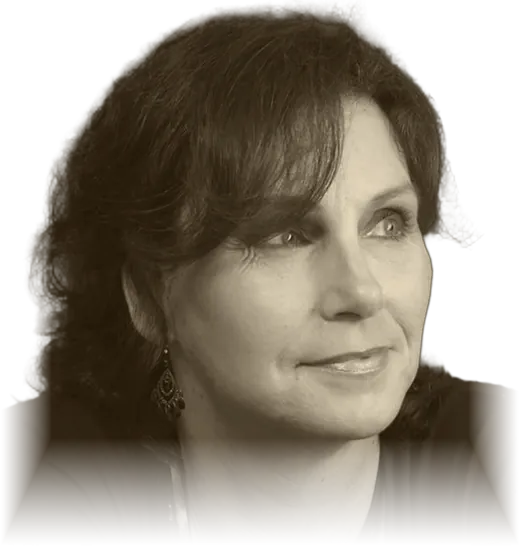
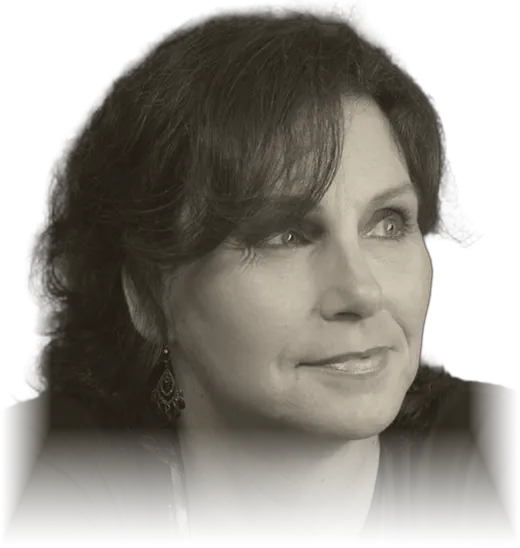
More elegant type and color
- Cormorant Garamond (light, with italic accents) for headings, Jost for text
- One champagne accent; ivory text on a warm near-black
- Section and album colors muted to jewel tones (plum, antique gold,
  copper, deep teal-green, oxblood); photos retinted to match
- Thin rectangular buttons, hairline labels and dividers, softer glows
  and grain, finer video play buttons
- Share card and tab icon redone in the new style

Claude-Session: https://claude.ai/code/session_01UcYrjYLsU9jUL2xbcuy7bP

Changed region(s): [[0.0615, 0.7755, 0.9231, 0.8686]]

diff --git a/assets/css/style.css b/assets/css/style.css
@@ -1,17 +1,17 @@
 /* Tamara L. Wilson Music — site styles */
 :root {
-  --bg: #15100c;
-  --surface: #211812;
-  --surface-2: #2c2018;
-  --line: #3d2e23;
-  --text: #f6ede4;
-  --muted: #c2b0a0;
-  --accent: #f0a93b;      /* warm amber */
-  --accent-ink: #1a1009;
-  --radius: 14px;
+  --bg: #0f0c0a;          /* warm near-black */
+  --surface: #191410;
+  --surface-2: #221b15;
+  --line: rgba(201, 169, 110, .22);   /* hairline champagne */
+  --text: #f1e9dc;        /* ivory */
+  --muted: #b8ab99;
+  --accent: #c9a96e;      /* champagne gold: the one accent color */
+  --accent-ink: #17120c;
+  --radius: 4px;
   --wrap: 1160px;
-  --serif: "Fraunces", Georgia, "Times New Roman", serif;
-  --sans: "Inter", system-ui, -apple-system, "Segoe UI", Roboto, sans-serif;
+  --serif: "Cormorant Garamond", "Cormorant", Garamond, "Times New Roman", serif;
+  --sans: "Jost", "Futura", system-ui, -apple-system, "Segoe UI", sans-serif;
   color-scheme: dark;
 }
 
@@ -383,3 +383,121 @@ details.more[open] > summary { margin-bottom: 24px; }
           mask-image: radial-gradient(ellipse 72% 72% at 50% 50%, #000 48%, transparent 100%); }
 .album-art .still-wrap img.still { width: 100%; height: 100%; aspect-ratio: auto; object-fit: cover; transform: scale(1.45); -webkit-mask-image: none; mask-image: none; opacity: .95; }
 @media (max-width: 699px) { .album-art .still-wrap { aspect-ratio: 16/9; } }
+
+
+/* =====================================================================
+   Elegant theme: Cormorant Garamond headings, Jost text, champagne accent,
+   thin outlined buttons, hairlines, quieter color.
+   ===================================================================== */
+body { font: 300 17px/1.75 var(--sans); letter-spacing: .01em; }
+strong, b { font-weight: 500; }
+h1, h2, h3, .h3 { font-family: var(--serif); font-weight: 400; letter-spacing: 0; }
+em { font-style: italic; }
+
+/* Header */
+.site-header { background: rgba(15, 12, 10, .82); border-bottom: 1px solid var(--line); }
+.brand { font-family: var(--serif); font-weight: 500; font-size: 1.45rem; letter-spacing: .02em; }
+.site-nav a { font: 400 .74rem/1 var(--sans); letter-spacing: .24em; text-transform: uppercase; color: var(--muted); }
+.site-nav a:hover, .site-nav a[aria-current="page"] { color: var(--text); }
+.site-nav > ul > li > a[aria-current="page"] { box-shadow: inset 0 -1px 0 var(--accent); }
+
+/* Big poster headings: light serif, mixed upright and italic */
+.poster-title {
+  font-family: var(--serif); font-weight: 300; text-transform: none; letter-spacing: -.01em; line-height: 1.02;
+  font-size: clamp(2.9rem, 6.6vw, 5.6rem); margin: 0 0 .45em; text-wrap: balance;
+}
+.poster-title em { font-style: italic; font-weight: 300; color: color-mix(in srgb, var(--text) 70%, var(--accent)); }
+.album .poster-title { font-size: clamp(2.5rem, 5.4vw, 4.4rem); }
+.poster .hero-line { font-family: var(--serif); font-style: italic; font-weight: 300; font-size: clamp(1.45rem, 2.8vw, 2rem); color: var(--text); }
+
+/* Small spaced labels, with a hairline before them */
+.poster-label { display: flex; align-items: center; gap: 12px; font: 400 .7rem/1 var(--sans); letter-spacing: .32em; color: var(--accent); margin-bottom: 26px; }
+.poster-label::before { content: ""; width: 34px; height: 1px; background: currentColor; opacity: .6; }
+.poster-label span { font: italic 300 1.15rem/1 var(--serif); letter-spacing: 0; margin-right: 2px; color: var(--text); }
+.album .poster-label, .plain .poster-label { color: var(--accent); }
+.album .poster-label span, .plain .poster-label span { color: var(--text); }
+
+.lede { font-weight: 300; font-size: 1.12rem; line-height: 1.75; }
+.poster .lede, .album .lede { color: color-mix(in srgb, var(--text) 88%, rgb(var(--c, 201,169,110))); }
+
+/* Info row */
+.info-row { border-top: 1px solid var(--line); }
+.info-row dt { font: 400 .66rem/1 var(--sans); letter-spacing: .28em; color: var(--accent) !important; }
+.info-row dd { font-family: var(--serif); font-size: 1.2rem; }
+.info-row a { border-bottom: 1px solid var(--line); }
+
+/* Buttons: thin, rectangular, spaced capitals */
+.btn {
+  min-height: 48px; padding: 0 28px; border-radius: 0; border: 1px solid var(--accent);
+  background: var(--accent); color: var(--accent-ink);
+  font: 500 .72rem/1 var(--sans); letter-spacing: .24em; text-transform: uppercase; transition: background .25s, color .25s, border-color .25s;
+}
+.btn:hover { transform: none; background: transparent; color: var(--accent); }
+.btn.ghost, .poster .btn.ghost, .album .btn.ghost { background: transparent; color: var(--text); border-color: rgba(241, 233, 220, .32); }
+.btn.ghost:hover, .poster .btn.ghost:hover, .album .btn.ghost:hover { border-color: var(--accent); color: var(--accent); }
+.btn.small { min-height: 40px; padding: 0 18px; font-size: .68rem; }
+.btn-play .play-icon { border-width: 6px 0 6px 9px; }
+.text-link, .poster .text-link { color: var(--accent); text-decoration-thickness: 1px; text-underline-offset: 4px; }
+
+/* Calmer color: softer glows, gentler grain */
+.poster {
+  background:
+    radial-gradient(55% 85% at 76% 45%, rgba(var(--c), .32), transparent 72%),
+    radial-gradient(45% 70% at 4% 100%, rgba(var(--c2, var(--c)), .12), transparent 70%),
+    linear-gradient(100deg, var(--deep) 0%, var(--mid) 100%);
+}
+.poster.flip {
+  background:
+    radial-gradient(55% 85% at 24% 45%, rgba(var(--c), .32), transparent 72%),
+    radial-gradient(45% 70% at 96% 100%, rgba(var(--c2, var(--c)), .12), transparent 70%),
+    linear-gradient(260deg, var(--deep) 0%, var(--mid) 100%);
+}
+.poster + .poster, .album { border-top: 1px solid var(--line); }
+.poster::before, .album::before { opacity: .22; }
+.album {
+  background:
+    radial-gradient(55% 70% at 78% 18%, color-mix(in srgb, var(--m) 30%, transparent), transparent 72%),
+    radial-gradient(45% 60% at 0% 100%, color-mix(in srgb, var(--m2) 12%, transparent), transparent 70%),
+    linear-gradient(100deg, color-mix(in srgb, var(--m) 5%, #0d0a09), color-mix(in srgb, var(--m) 13%, #110d0b));
+}
+.album.flip {
+  background:
+    radial-gradient(55% 70% at 22% 18%, color-mix(in srgb, var(--m) 30%, transparent), transparent 72%),
+    radial-gradient(45% 60% at 100% 100%, color-mix(in srgb, var(--m2) 12%, transparent), transparent 70%),
+    linear-gradient(260deg, color-mix(in srgb, var(--m) 5%, #0d0a09), color-mix(in srgb, var(--m) 13%, #110d0b));
+}
+.poster-photo img { filter: drop-shadow(0 30px 70px rgba(0,0,0,.5)) saturate(.85); }
+
+/* Covers, videos and pictures: crisper corners, finer details */
+.poster-cover img, .album-art img.square, .album-art img.wide, .album-art .still-wrap { border-radius: 2px; }
+.yt, .yt-frame { border-radius: 2px; }
+.video h3, .album .video h3 { font-family: var(--serif); font-weight: 500; font-size: 1.3rem; letter-spacing: .005em; margin-top: 14px; }
+.video p, .album .video p { font-size: .92rem; line-height: 1.65; }
+.play { background: rgba(15, 12, 10, .55); border: 1px solid rgba(241, 233, 220, .7); width: 58px; height: 58px; }
+.play::after { border-color: transparent transparent transparent var(--text); }
+.yt:hover .play { background: var(--accent); border-color: var(--accent); }
+.yt:hover .play::after { border-left-color: var(--accent-ink); }
+.vrow-btn { border-radius: 50%; background: rgba(15, 12, 10, .7); border-color: rgba(201, 169, 110, .5); font-family: var(--serif); font-weight: 300; }
+.vrow-btn:hover { background: var(--accent); color: var(--accent-ink); }
+.vrow-count { color: var(--accent); font-size: .68rem; letter-spacing: .28em; }
+
+/* Music page jump links: hairline pills */
+.jump a { border-radius: 0; border: 1px solid var(--line); background: transparent; font: 400 .72rem/1 var(--sans); letter-spacing: .2em; text-transform: uppercase; padding: 11px 16px; color: var(--muted); }
+.jump a:hover { border-color: color-mix(in srgb, var(--m) 80%, #fff); color: var(--text); background: color-mix(in srgb, var(--m) 14%, transparent); }
+
+/* Quotes, track lists, downloads, footer */
+.quote-poster blockquote { font-weight: 300; font-size: clamp(1.7rem, 3.4vw, 2.6rem); line-height: 1.3; }
+.tracklist li { border-bottom-color: var(--line); }
+.tracklist li::marker { color: var(--accent); font-family: var(--serif); }
+.downloads li { border-radius: 0; background: transparent; border: 1px solid var(--line); }
+.dl-title { font-family: var(--serif); font-weight: 500; font-size: 1.35rem; }
+.site-footer { border-top: 1px solid var(--line); }
+.site-footer .brand { font-size: 1.6rem; }
+.footer-links a { font-size: .72rem; letter-spacing: .22em; text-transform: uppercase; }
+.lightbox-title { font-family: var(--serif); font-style: italic; font-size: 1.4rem; }
+.lightbox-close { font-family: var(--serif); font-weight: 300; }
+
+@media (max-width: 479px) {
+  .poster-label { letter-spacing: .22em; gap: 10px; }
+  .poster-label:not(:has(span))::before { display: none; }   /* long labels fit on one line */
+}

diff --git a/about.html b/about.html
@@ -4,11 +4,11 @@ title: About
 permalink: /about
 description: Tamara Lyn Wilson is a singer/songwriter from North Carolina who believes a great song should lift your heart, warm the soul and make you feel good.
 ---
-<section class="poster poster-hero" style="--c: 232, 165, 60; --deep: #140d05; --mid: #2e1f0b">
+<section class="poster poster-hero" style="--c: 176, 142, 84; --deep: #0f0c08; --mid: #221a10">
   <div class="wrap poster-inner">
     <div class="poster-copy">
       <p class="poster-label">About</p>
-      <h1 class="poster-title">Embrace<br>your passion</h1>
+      <h1 class="poster-title">Embrace <em>your passion</em></h1>
       <p class="lede">Tamara Lyn Wilson is a singer/songwriter from North Carolina. She believes a great song should lift your heart, warm the soul and make you feel good.</p>
       <div class="actions">
         <a class="btn" href="#story">Her story</a>
@@ -24,7 +24,7 @@ description: Tamara Lyn Wilson is a singer/songwriter from North Carolina who be
 <section class="plain" id="story">
   <div class="wrap split">
     <div class="prose reveal">
-      <p class="poster-label" style="--c: 232, 165, 60"><span>01</span> Bio</p>
+      <p class="poster-label" style="--c: 176, 142, 84"><span>01</span> Bio</p>
       <p>Spreading love and positive vibes is Tamara L. Wilson&rsquo;s mission for her music; and it&rsquo;s a breath of fresh air. Her party started when she was only a girl, singing along with her &lsquo;Papa&rsquo; and her Dad, in their down-home sing-alongs playing their guitars and singing gospel and country music. Tamara&rsquo;s journey has always led her back to the melodies of her heart and soul.</p>
       <p>Growing up in South Carolina, she started out singing locally and then worked the Marriott circuit for a while as a performing artist. Her songwriting really began to unfold while attending a community college in Mesa, AZ, where she studied recording and piano. As soon as her hands hit the keys, she was awakened to her natural and God-given talent of crafting a soulful song using her heartfelt vocals. Tamara&rsquo;s true heart&rsquo;s desire is to make others feel better and have a little fun while discovering her music.</p>
       <p>To date Tamara has released the album <a class="text-link" href="{{ '/music' | relative_url }}#paradise">Paradise</a>; the EPs <a class="text-link" href="{{ '/music' | relative_url }}#freedom">Freedom</a>, <a class="text-link" href="{{ '/music' | relative_url }}#y-o-k-o-b">Your Own Kind of Beautiful</a>, <a class="text-link" href="{{ '/music' | relative_url }}#new-world">A New World</a> and <a class="text-link" href="{{ '/music' | relative_url }}#let-it-go">Let It Go</a>; the songs of <a class="text-link" href="{{ '/music' | relative_url }}#shelter">Shelter</a>; <a class="text-link" href="{{ '/music' | relative_url }}#singles">singles</a> including &lsquo;The Lord&rsquo;s Prayer&rsquo;, &lsquo;Freedom Flame&rsquo;, &lsquo;I and The Father&rsquo;, &lsquo;Time&rsquo; and &lsquo;Little More Love&rsquo;; the album <a class="text-link" href="{{ '/music' | relative_url }}#all-about-love">All About Love</a> (2022); and <a class="text-link" href="{{ '/music' | relative_url }}#pop-collection">Pop Collection Remastered</a>, 18 of her best.</p>
@@ -33,7 +33,7 @@ description: Tamara Lyn Wilson is a singer/songwriter from North Carolina who be
   </div>
 </section>
 
-<section class="poster quote-poster" style="--c: 170, 92, 220; --deep: #120a1c; --mid: #2a1440">
+<section class="poster quote-poster" style="--c: 126, 70, 112; --deep: #0f0a0e; --mid: #22141f">
   <div class="wrap reveal">
     <p class="poster-label">Live life in song</p>
     <blockquote>Live your truth. Express your love. Share your enthusiasm. Take action towards your dreams. Walk your talk. Dance and sing to your music. Make today worth remembering. Be grateful and embrace your blessings!</blockquote>
@@ -46,11 +46,11 @@ description: Tamara Lyn Wilson is a singer/songwriter from North Carolina who be
   <li><img src="{{ '/images/gallery-3-warm.webp' | relative_url }}" alt="Tamara in an embroidered dress, looking to the side" loading="lazy" width="900" height="1200"></li>
 </ul>
 
-<section class="poster" style="--c: 58, 167, 184; --deep: #051214; --mid: #0b2a2f">
+<section class="poster" style="--c: 64, 112, 104; --deep: #080d0c; --mid: #12201d">
   <div class="wrap">
     <div class="reveal">
       <p class="poster-label"><span>02</span> Watch &amp; listen</p>
-      <h2 class="poster-title">Interviews &amp;<br>outreach</h2>
+      <h2 class="poster-title">Interviews <em>&amp;</em> outreach</h2>
     </div>
     <div class="video-grid">
       {% include video.html v=site.data.about.outreach %}
@@ -61,8 +61,8 @@ description: Tamara Lyn Wilson is a singer/songwriter from North Carolina who be
 
 <section class="plain">
   <div class="wrap reveal">
-    <p class="poster-label" style="--c: 232, 165, 60"><span>03</span> Always free</p>
-    <h2 class="poster-title">Free downloads</h2>
+    <p class="poster-label" style="--c: 176, 142, 84"><span>03</span> Always free</p>
+    <h2 class="poster-title">Free <em>downloads</em></h2>
     <ul class="downloads">
       {% for d in site.data.about.downloads %}
       <li>
@@ -77,11 +77,11 @@ description: Tamara Lyn Wilson is a singer/songwriter from North Carolina who be
   </div>
 </section>
 
-<section class="poster flip" id="contact" style="--c: 192, 68, 58; --deep: #140606; --mid: #2e0f0d">
+<section class="poster flip" id="contact" style="--c: 128, 46, 48; --deep: #0f0808; --mid: #221011">
   <div class="wrap poster-inner">
     <div class="poster-copy reveal">
       <p class="poster-label"><span>04</span> Contact</p>
-      <h2 class="poster-title">Drop me<br>a line</h2>
+      <h2 class="poster-title">Drop me <em>a line</em></h2>
       <p class="lede">For info on purchasing CDs or upcoming events. Hope to hear from you soon!</p>
       {% if site.formspree_id != "" %}
       <form class="form" action="https://formspree.io/f/{{ site.formspree_id }}" method="POST">

diff --git a/index.html b/index.html
@@ -10,11 +10,11 @@ title: Tamara L. Wilson Music
   (set with --c, as "R, G, B") and its own photo of Tamara. Photos alternate sides.
 {% endcomment %}
 
-<section class="poster poster-hero" style="--c: 170, 92, 220; --deep: #120a1c; --mid: #2a1440">
+<section class="poster poster-hero" style="--c: 126, 70, 112; --deep: #0f0a0e; --mid: #22141f">
   <div class="wrap poster-inner">
     <div class="poster-copy">
       <p class="poster-label">Singer &middot; Songwriter &middot; North Carolina</p>
-      <h1 class="poster-title">Tamara<br>L.&nbsp;Wilson</h1>
+      <h1 class="poster-title">Tamara <em>L.</em><br>Wilson</h1>
       <p class="hero-line"><em>Life is a song. Love is the music.</em></p>
       <p class="lede">Spreading love and positive vibes through soulful pop and R&amp;B: songs to lift your heart, warm the soul and make you feel good.</p>
       <dl class="info-row">
@@ -36,11 +36,11 @@ title: Tamara L. Wilson Music
   </div>
 </section>
 
-<section class="poster flip" id="story" style="--c: 232, 165, 60; --deep: #140d05; --mid: #2e1f0b">
+<section class="poster flip" id="story" style="--c: 176, 142, 84; --deep: #0f0c08; --mid: #221a10">
   <div class="wrap poster-inner">
     <div class="poster-copy reveal">
       <p class="poster-label"><span>01</span> Her story</p>
-      <h2 class="poster-title">Raised on<br>sing-alongs</h2>
+      <h2 class="poster-title">Raised on <em>sing-alongs</em></h2>
       <p class="lede">Her party started when she was only a girl, singing gospel and country with her &lsquo;Papa&rsquo; and her Dad in their down-home sing-alongs.</p>
       <p>From singing locally in South Carolina and the Marriott circuit, to studying recording and piano in Mesa, Arizona, where her songwriting took off, Tamara&rsquo;s journey has always led her back to the melodies of her heart and soul.</p>
       <div class="actions"><a class="btn" href="{{ '/about' | relative_url }}#story">Read her story</a></div>
@@ -51,11 +51,11 @@ title: Tamara L. Wilson Music
   </div>
 </section>
 
-<section class="poster" style="--c: 232, 145, 63; --c2: 155, 79, 196; --deep: #150b10; --mid: #2b1420">
+<section class="poster" style="--c: 160, 104, 72; --c2: 112, 66, 106; --deep: #100b0a; --mid: #22150f">
   <div class="wrap poster-inner">
     <div class="poster-copy reveal">
       <p class="poster-label"><span>02</span> Latest album</p>
-      <h2 class="poster-title">Pop Collection<br>Remastered</h2>
+      <h2 class="poster-title">Pop Collection <em>Remastered</em></h2>
       <p class="lede">18 of her best, remastered: soulful pop, R&amp;B, samba, bossa and funk with a message of love. Plus the new single <a class="text-link" href="{{ site.links.buy_life }}">&ldquo;Life&rdquo;</a>, out now.</p>
       <div class="actions">
         <a class="btn" href="{{ pop.buy }}">Buy &amp; stream</a>
@@ -68,11 +68,11 @@ title: Tamara L. Wilson Music
   </div>
 </section>
 
-<section class="poster flip" style="--c: 58, 167, 184; --deep: #051214; --mid: #0b2a2f">
+<section class="poster flip" style="--c: 64, 112, 104; --deep: #080d0c; --mid: #12201d">
   <div class="wrap poster-inner">
     <div class="poster-copy reveal">
       <p class="poster-label"><span>03</span> Watch</p>
-      <h2 class="poster-title">Lyric<br>videos</h2>
+      <h2 class="poster-title">Lyric <em>videos</em></h2>
       <div class="poster-videos">
         {% for v in singles.videos limit: 3 %}{% include video.html v=v compact=true %}{% endfor %}
       </div>
@@ -84,11 +84,11 @@ title: Tamara L. Wilson Music
   </div>
 </section>
 
-<section class="poster" style="--c: 192, 68, 58; --deep: #140606; --mid: #2e0f0d">
+<section class="poster" style="--c: 128, 46, 48; --deep: #0f0808; --mid: #221011">
   <div class="wrap poster-inner">
     <div class="poster-copy reveal">
       <p class="poster-label"><span>04</span> Connect</p>
-      <h2 class="poster-title">Hope to hear<br>from you soon</h2>
+      <h2 class="poster-title">Hope to hear <em>from you</em> soon</h2>
       <p class="lede">For CDs, upcoming events, or just to say hello.</p>
       <div class="actions">
         <a class="btn" href="{{ '/about' | relative_url }}#contact">Get in touch</a>

diff --git a/_layouts/default.html b/_layouts/default.html
@@ -7,14 +7,14 @@
   <link rel="preconnect" href="https://fonts.googleapis.com">
   <link rel="preconnect" href="https://fonts.gstatic.com" crossorigin>
   <!-- Fonts load without holding up the page; text shows in a fallback font for a moment if needed -->
-  <link rel="preload" as="style" href="https://fonts.googleapis.com/css2?family=Fraunces:ital,opsz,wght@0,9..144,400;0,9..144,600;1,9..144,400&family=Inter:wght@400;500;600;800&display=swap">
-  <link rel="stylesheet" href="https://fonts.googleapis.com/css2?family=Fraunces:ital,opsz,wght@0,9..144,400;0,9..144,600;1,9..144,400&family=Inter:wght@400;500;600;800&display=swap" media="print" onload="this.media='all'">
-  <noscript><link rel="stylesheet" href="https://fonts.googleapis.com/css2?family=Fraunces:ital,opsz,wght@0,9..144,400;0,9..144,600;1,9..144,400&family=Inter:wght@400;500;600;800&display=swap"></noscript>
+  <link rel="preload" as="style" href="https://fonts.googleapis.com/css2?family=Cormorant+Garamond:ital,wght@0,300;0,400;0,500;1,300;1,400;1,500&family=Jost:wght@300;400;500&display=swap">
+  <link rel="stylesheet" href="https://fonts.googleapis.com/css2?family=Cormorant+Garamond:ital,wght@0,300;0,400;0,500;1,300;1,400;1,500&family=Jost:wght@300;400;500&display=swap" media="print" onload="this.media='all'">
+  <noscript><link rel="stylesheet" href="https://fonts.googleapis.com/css2?family=Cormorant+Garamond:ital,wght@0,300;0,400;0,500;1,300;1,400;1,500&family=Jost:wght@300;400;500&display=swap"></noscript>
   <link rel="stylesheet" href="{{ '/assets/css/style.css' | relative_url }}?v={{ site.time | date: '%s' }}">
   <link rel="icon" type="image/png" sizes="32x32" href="{{ '/images/favicon-32.png' | relative_url }}">
   <link rel="icon" type="image/png" sizes="192x192" href="{{ '/images/favicon.png' | relative_url }}">
   <link rel="apple-touch-icon" href="{{ '/images/apple-touch-icon.png' | relative_url }}">
-  <meta name="theme-color" content="#15100c">
+  <meta name="theme-color" content="#0f0c0a">
   {% seo %}
 </head>
 <body>

diff --git a/music.html b/music.html
@@ -11,11 +11,11 @@ description: Every album, EP and single by Tamara L. Wilson, with lyric videos, 
   Old album addresses like /paradise forward to /music#paradise.
 {% endcomment %}
 
-<section class="poster music-intro" style="--c: 232, 145, 63; --deep: #120c08; --mid: #24160c">
+<section class="poster music-intro" style="--c: 176, 142, 84; --deep: #0f0c08; --mid: #1d160e">
   <div class="wrap">
     <div>
       <p class="poster-label">Discography</p>
-      <h1 class="poster-title">Music</h1>
+      <h1 class="poster-title"><em>The</em> Music</h1>
       <p class="lede">Nine albums, EPs and collections of soulful pop and R&amp;B. Buy and stream on <a class="text-link" href="{{ site.links.buy_pop_collection }}">HearNow</a>, or listen free on <a class="text-link" href="{{ site.links.jango }}">Jango</a> and <a class="text-link" href="{{ site.links.youtube }}">YouTube</a>.</p>
       <nav aria-label="Albums on this page">
         <ul class="jump">
@@ -34,7 +34,8 @@ description: Every album, EP and single by Tamara L. Wilson, with lyric videos, 
     <div class="album-head">
       <div class="album-copy reveal">
         <p class="poster-label"><span>{% if n < 10 %}0{% endif %}{{ n }}</span> {{ r.kind }}{% if r.year %} &middot; {{ r.year }}{% endif %}</p>
-        <h2 class="poster-title">{{ r.title }}</h2>
+        {% assign words = r.title | split: " " %}
+        <h2 class="poster-title">{% if words.size > 1 %}{% for w in words %}{% if forloop.last %}<em>{{ w }}</em>{% else %}{{ w }} {% endif %}{% endfor %}{% else %}{{ r.title }}{% endif %}</h2>
         {% if r.intro %}<p class="lede">{{ r.intro }}</p>{% endif %}
         <div class="actions">
           {% if r.buy %}<a class="btn" href="{{ r.buy }}">Buy &amp; stream</a>{% endif %}
